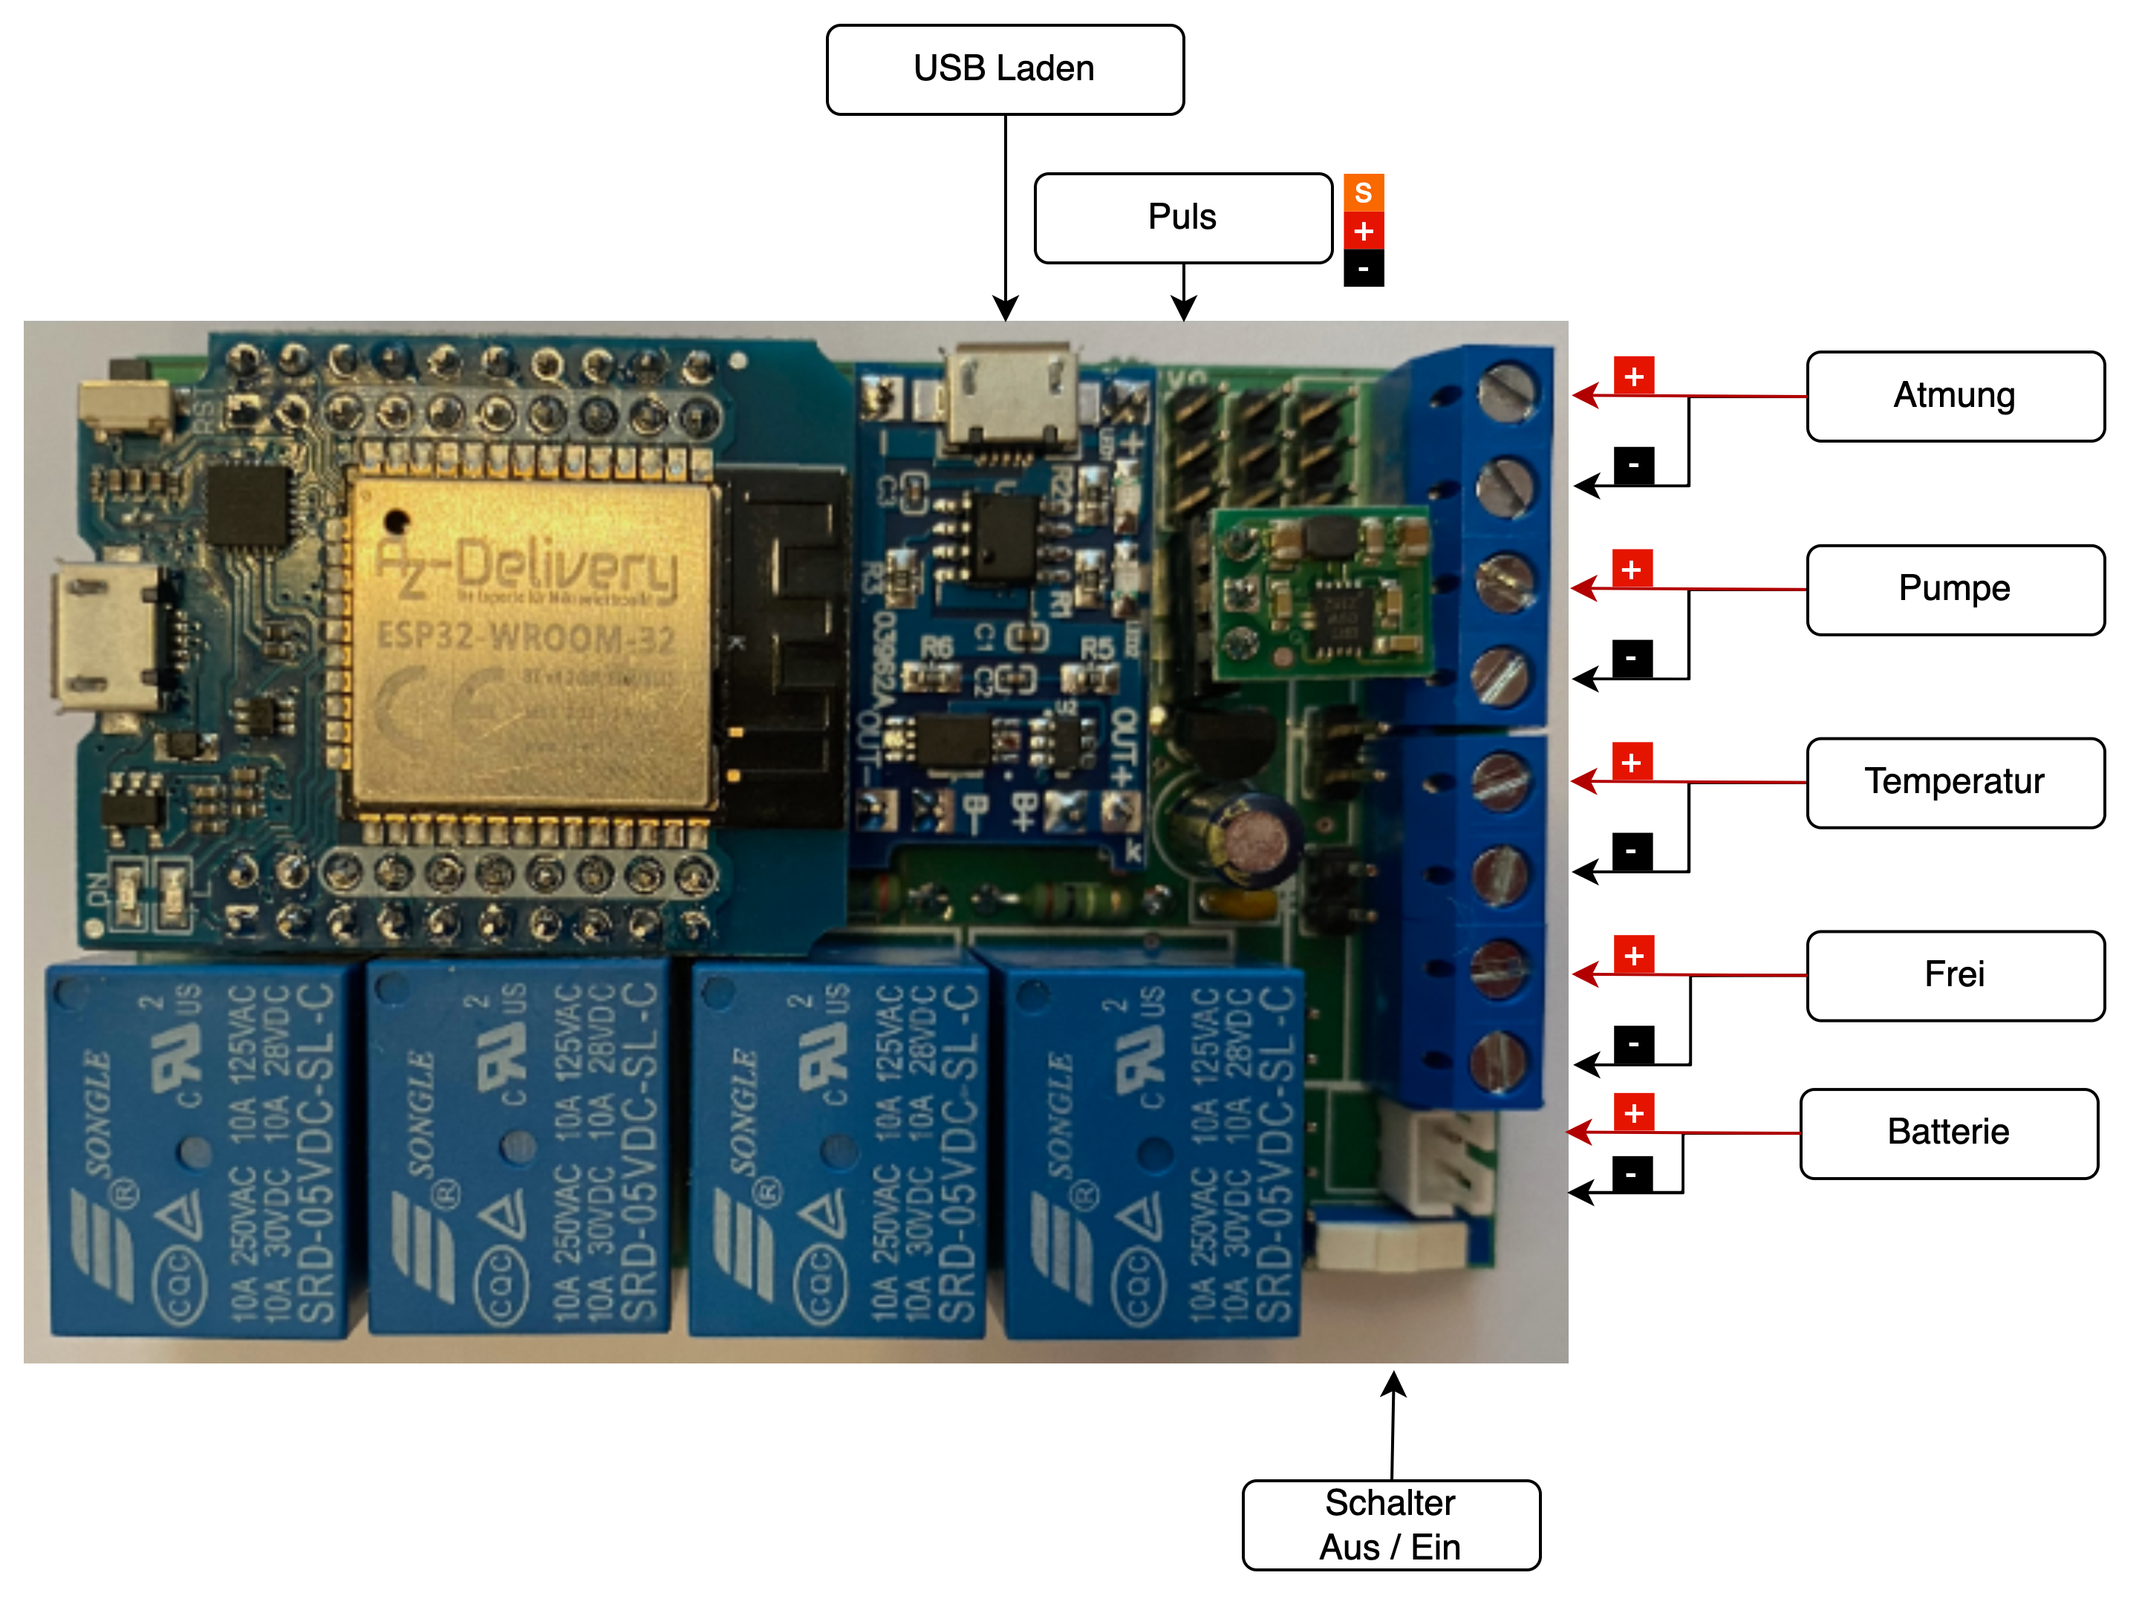
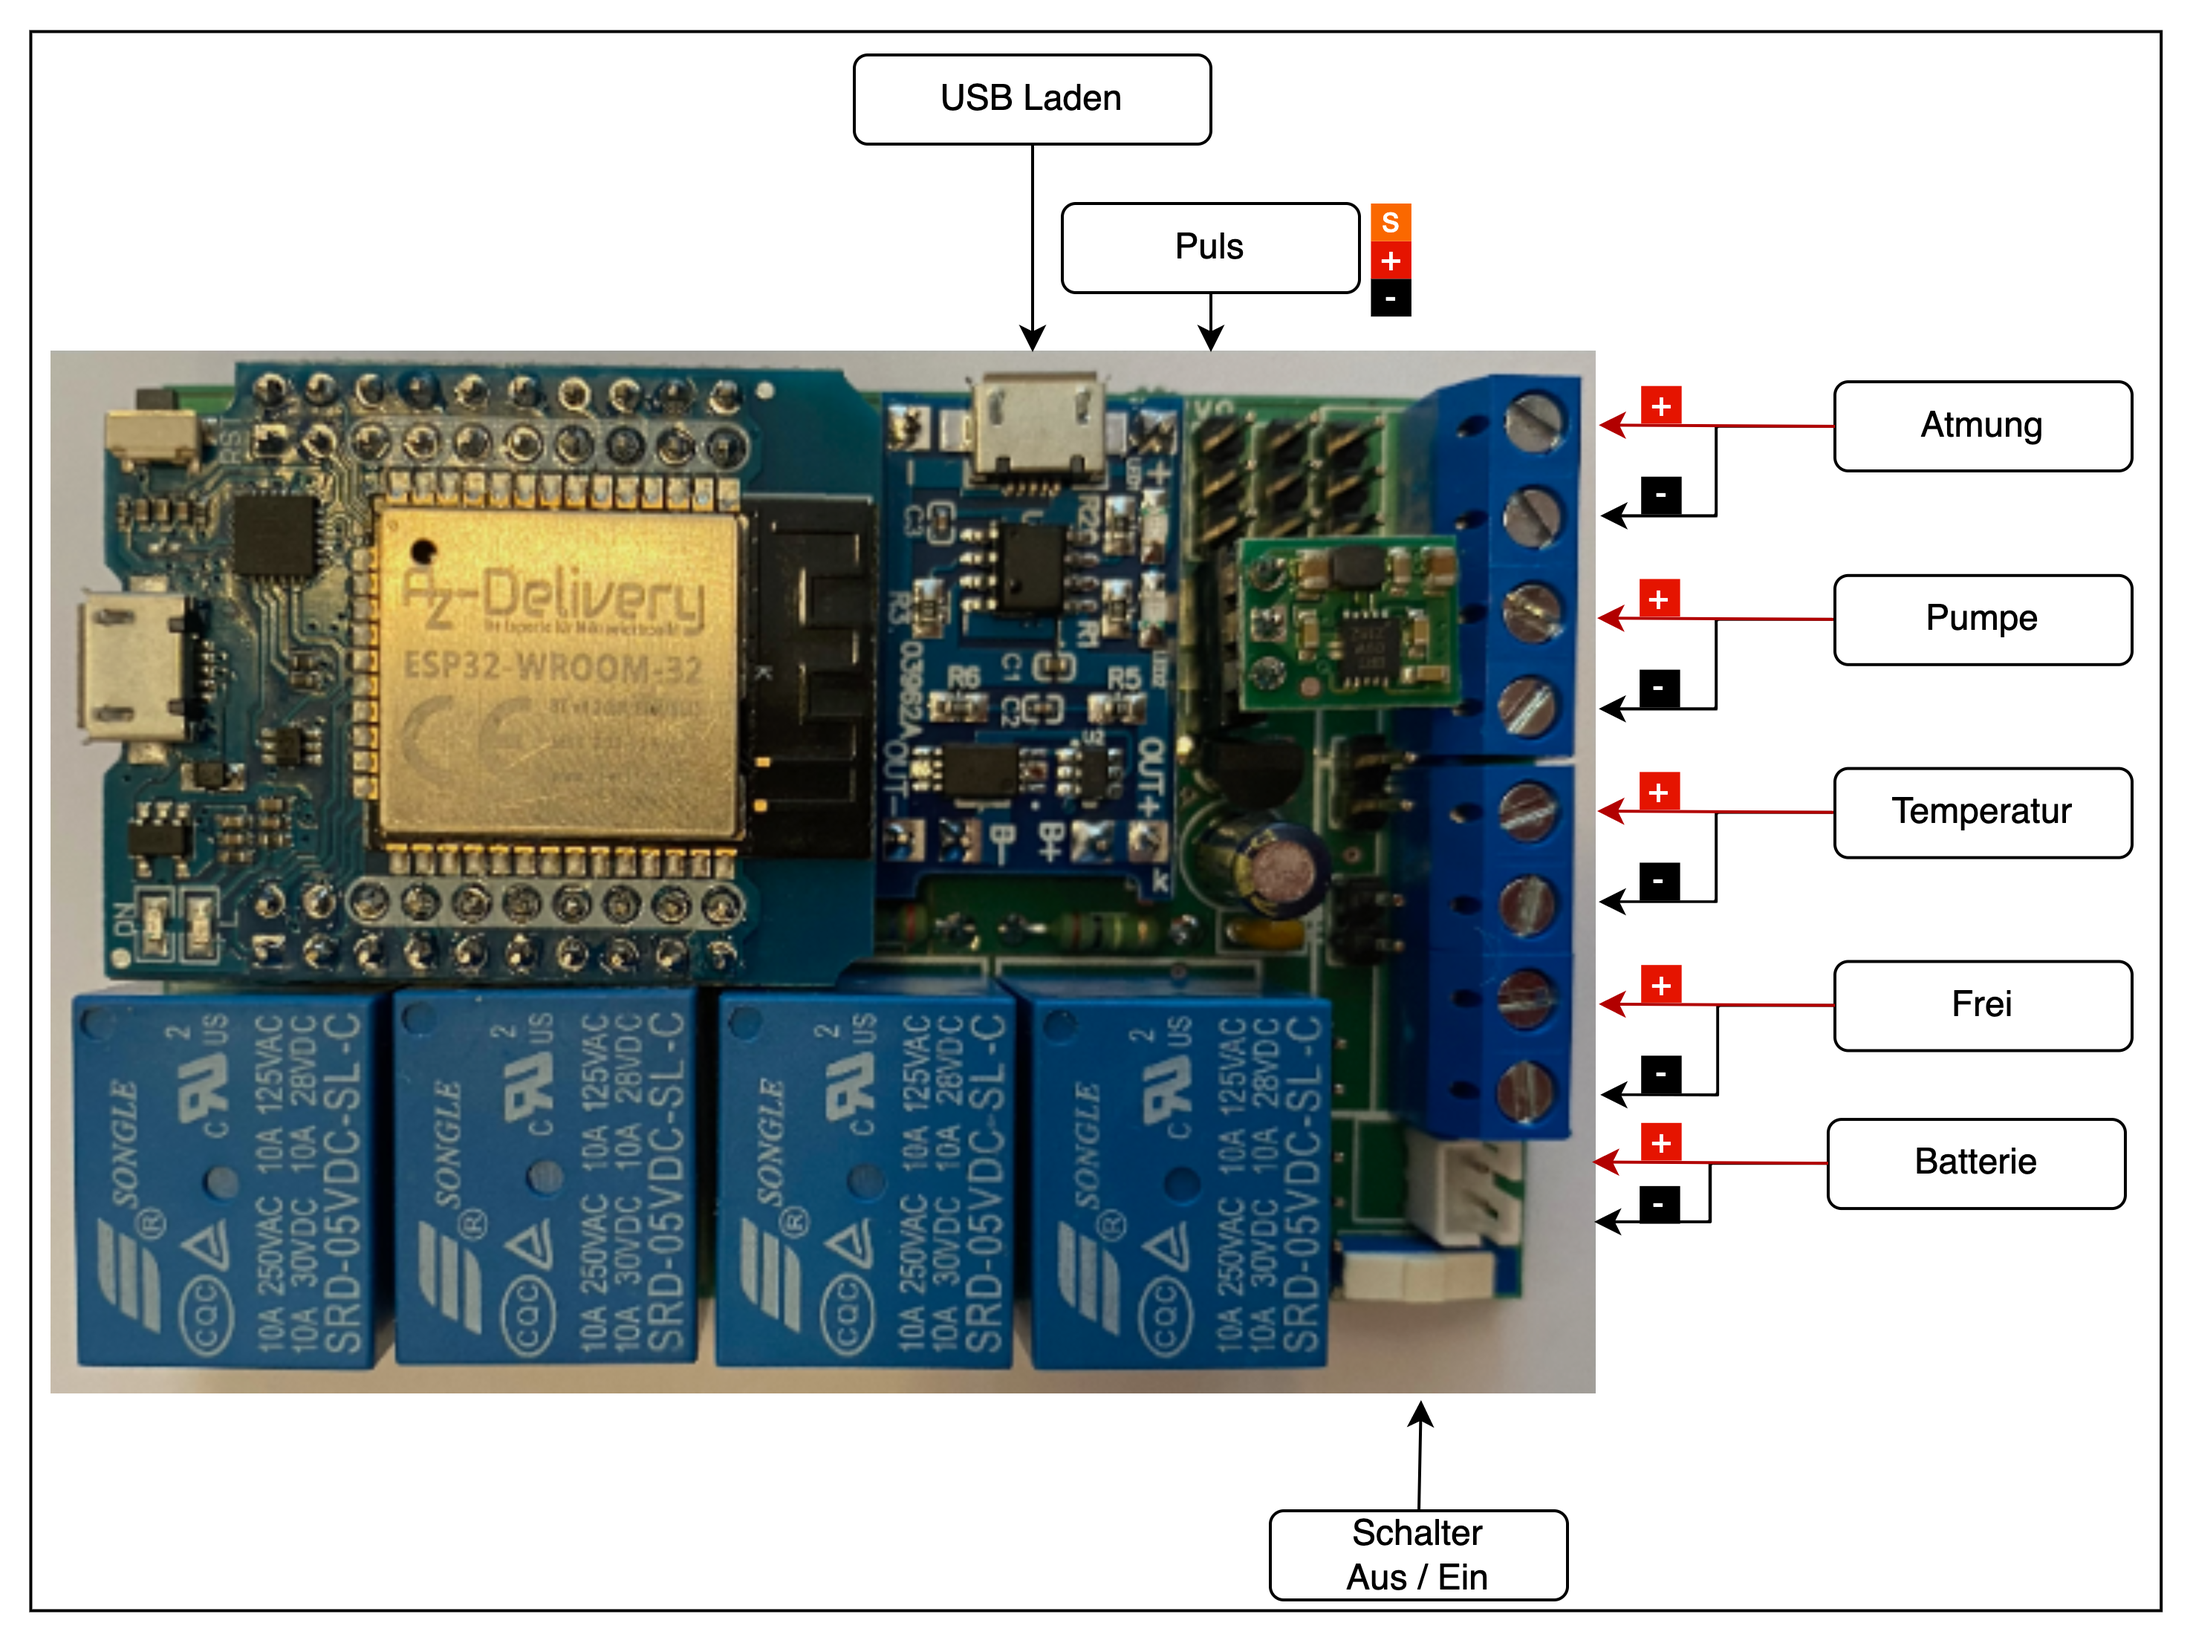
Update Readme.MD, board.png Hintergrund

diff --git a/Readme.MD b/Readme.MD
@@ -1,8 +1,6 @@
-# Cardio pulmonaray resuscitation Dummy (CPRD)
+# Cardio pulmonary resuscitation Dummy (CPRD)
 
-## CPRD ist eine Simulations Hard- und Software welche dafür eingesetzt werden kann um folgende Themen zu simulieren
-
-
+## CPRD ist eine Simulations Hard- bzw. Software welche dafür eingesetzt werden kann um folgende Themen zu simulieren
 
 - Blutkreislauf
   Es kann ein Relais für einen konfigurierbaren Zeitraum ein, bzw. ausgeschaltet werden.
@@ -59,11 +57,12 @@ Sollte ein Board einen zu geringen Batteriestatus haben, wird dies am jeweiligen
 
 * Batterie < 90% = GELB
 * Batterie < 80% = ROT
-  
-  ![Home](images/home.png)
+
+![Home](images/home.png)
 
 Sollten Boards nicht mehr aktiv sein (z.B. ausser Reichweite, Batterie leer), werden diese
 im linken Baum als "ausgegraut" dargestellt:
+
 ![Orphaned](images/orphaned.png)
 
 ### Menü
@@ -71,8 +70,6 @@ im linken Baum als "ausgegraut" dargestellt:
 Über das Menü links unten können folgende Seiten geöffnet werden.
 Dies funktioniert nur bei ausgewähltem Board, da diese Seiten Echtzeitdaten verwenden.
 ![Menu](images/menu.png)
-
-#### 
 
 ##### Settings
 
@@ -85,6 +82,13 @@ In dieser Seite können folgende Parameter konfiguriert werden:
 
 ![Menu](images/settings_default.png)
 
+* Save
+  Speichern der Daten im EEPROM
+* Reset
+  Zurückstellen aller Einstellungen auf den Auslieferungszustand (Board wird neu gestartet)
+* Reboot
+  Board wird neu gestartet
+
 ##### About
 
 Anzeige der aktuellen Versionen bzw. der zusätzlich verwendeten Software.
@@ -94,7 +98,7 @@ Anzeige der aktuellen Versionen bzw. der zusätzlich verwendeten Software.
 ##### Update
 
 Um ein Board aktualisieren zu können, muss es zwingend als "Master" Board aktiv sein.
-Für die Aktualisierung der Software wird
+Für die Aktualisierung der Software wird die Auswahl
 
 * Firmware
   und
@@ -117,7 +121,7 @@ Somit können die einzelnen Boards aufgefunden werden.
 
 ## Anschlüsse
 
-Das System besitzt folgende Anschlüsse (derzeit aktiviert):
+Das System besitzt folgende Anschlüsse (derzeit aktiviert/programmiert):
 
 * USB Laden
   Hierfür kann ein handelsübliches USB Ladegerät verwendet werden.
@@ -139,6 +143,15 @@ Das System besitzt folgende Anschlüsse (derzeit aktiviert):
 
 ![Pinout](images/board.png)
 
+* Folgende Pins sind derzeit schon auf dem Board vorhanden aber noch nicht aktiv im Einsatz:
+  * Relais 4 (Frei)
+  * 5 Volt (+/-)
+  * 3 Volt (+/-)
+  * MISO, MOSI, SS, SCK (z.B. um eine SD Karte anzuschliessen)
+  * SDA, SCL (z.B. für externe Sensoren [Temperatur, Luftfeuchte])
+  * GPIO1 (TXD)
+  * GPIO3 (RXD)
+
 ## Development
 
 Die Programmierung erfolgt mittels Visual Studio Code und PlatformIO.
@@ -151,9 +164,12 @@ todo
 
 > Note: `to be` defined.
 
+## Issues
+
+Derzeit kommt es vereinzelt zu Ausfällen wenn der Puls gestartet wird. Es wird ein Neustart des Boards durchgeführt.
+
 ## License
 
-GPL
+GPL v2
 
 **Free Software, Hell Yeah!**
-
